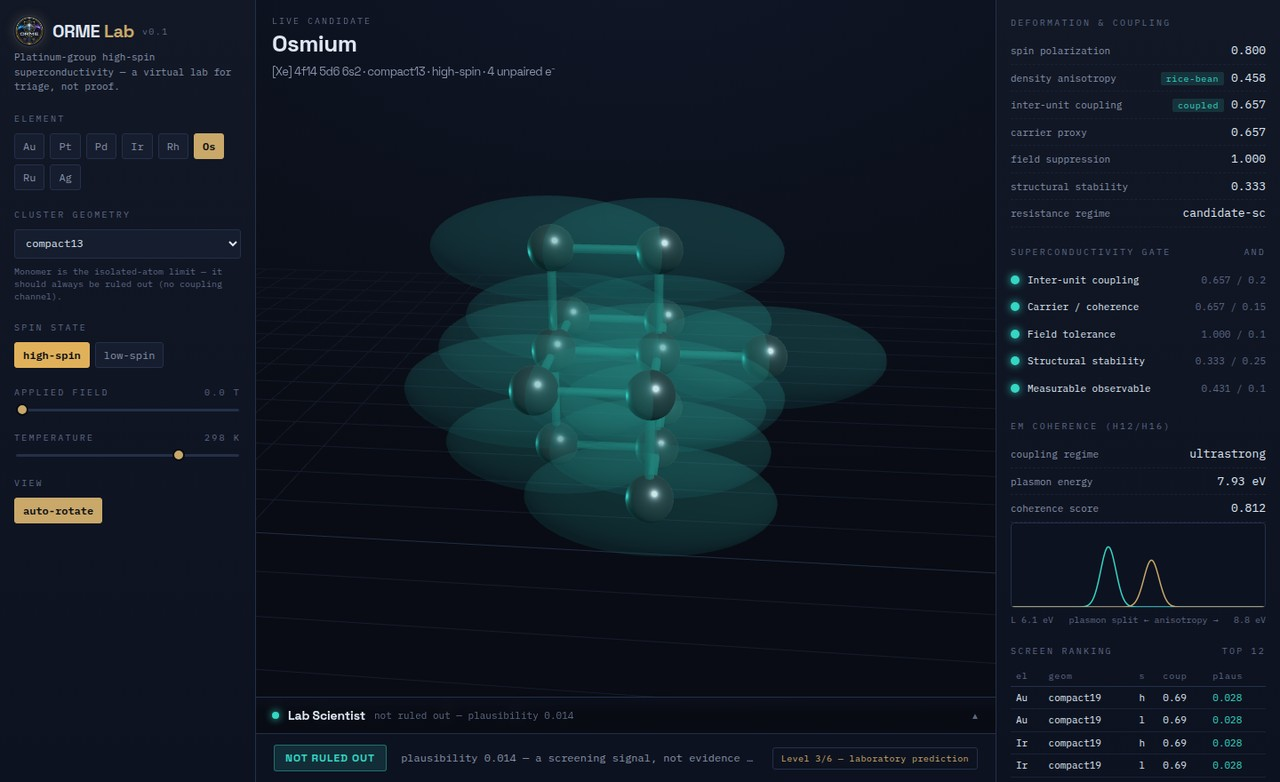
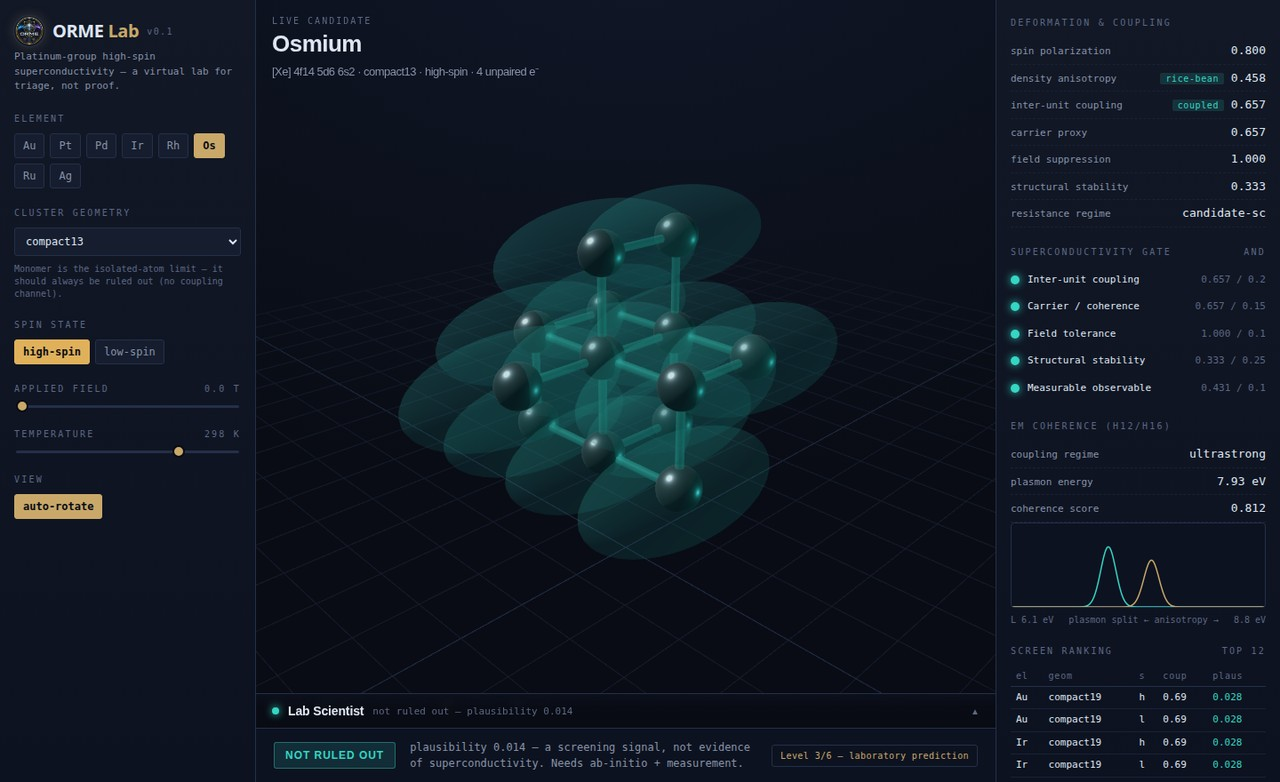
Fix right-side text cutoff on mobile and desktop
- Mobile: the plasmon <canvas> (width:100%, no max-width) forced the right
  rail's min-content to ~1194px; on the single-column mobile grid the '1fr'
  (= minmax(auto,1fr)) inherited that floor and blew the column out, so
  body{overflow:hidden} clipped every metric value off the right edge. Fix:
  max-width:100% on #plasmon, min-width:0 + overflow-x:hidden on .rail, and
  minmax(0,1fr) for the mobile column so items shrink instead of overflowing.
- Desktop: the verdict .line was nowrap+overflow:hidden and got hard-truncated
  once the evidence badge took width. Now it wraps (flex-wrap on #verdict) so
  the full sentence + Level badge show.
- Refresh README screenshot to the corrected verdict bar.

Verified at 390px and 1280px: zero elements overflow, verdict wraps in full.

diff --git a/web/styles.css b/web/styles.css
@@ -48,6 +48,8 @@ h1, h2, h3, .display { font-family: "Space Grotesk", system-ui, sans-serif; }
   border-right: 1px solid var(--line);
   padding: 18px 16px;
   overflow-y: auto;
+  overflow-x: hidden;
+  min-width: 0;   /* let grid items shrink instead of forcing overflow */
 }
 .rail.right { grid-column: 3; border-right: none; border-left: 1px solid var(--line); }
 .rail.left { grid-column: 1; }
@@ -124,7 +126,8 @@ input[type=range]::-moz-range-thumb {
 /* ---- verdict bar (bottom) ---- */
 #verdict {
   grid-row: 2; grid-column: 2; border-top: 1px solid var(--line);
-  background: var(--void-2); padding: 12px 20px; display: flex; align-items: center; gap: 16px;
+  background: var(--void-2); padding: 12px 20px; display: flex; align-items: center;
+  gap: 12px 16px; flex-wrap: wrap;
 }
 #verdict .badge {
   font-family: "Space Grotesk", sans-serif; font-weight: 600; font-size: 12px;
@@ -132,7 +135,7 @@ input[type=range]::-moz-range-thumb {
 }
 #verdict .badge.ok { background: rgba(53,214,196,0.14); color: var(--coherent); border: 1px solid rgba(53,214,196,0.4); }
 #verdict .badge.no { background: rgba(214,106,74,0.14); color: var(--ruled); border: 1px solid rgba(214,106,74,0.4); }
-#verdict .line { color: var(--muted); font-size: 12px; overflow: hidden; text-overflow: ellipsis; white-space: nowrap; flex: 1; }
+#verdict .line { color: var(--muted); font-size: 12px; white-space: normal; overflow: visible; min-width: 0; flex: 1 1 240px; }
 #verdict .evidence { flex: none; font-size: 10px; letter-spacing: 0.04em; color: var(--gold);
   border: 1px solid var(--line); border-radius: 3px; padding: 4px 9px; white-space: nowrap; }
 
@@ -153,7 +156,7 @@ input[type=range]::-moz-range-thumb {
 .legend i { display: inline-block; width: 9px; height: 9px; border-radius: 2px; margin-right: 5px; vertical-align: middle; }
 
 /* ---- plasmon spectrum ---- */
-#plasmon { width: 100%; height: 96px; display: block; background: var(--void-2);
+#plasmon { width: 100%; max-width: 100%; height: 96px; display: block; background: var(--void-2);
   border: 1px solid var(--line); border-radius: 4px; }
 .spec-caption { font-size: 10px; color: var(--muted-2); margin-top: 6px; display: flex; justify-content: space-between; }
 
@@ -232,7 +235,7 @@ input[type=range]::-moz-range-thumb {
 
 @media (prefers-reduced-motion: reduce) { * { animation: none !important; } }
 @media (max-width: 1080px) {
-  #shell { grid-template-columns: 1fr; grid-template-rows: auto 46vh auto auto; }
+  #shell { grid-template-columns: minmax(0, 1fr); grid-template-rows: auto 46vh auto auto; }
   .rail, .rail.right { grid-column: 1; grid-row: auto; border: none; border-top: 1px solid var(--line); }
   #stage { grid-column: 1; grid-row: 2; }
   #verdict { grid-column: 1; grid-row: auto; }